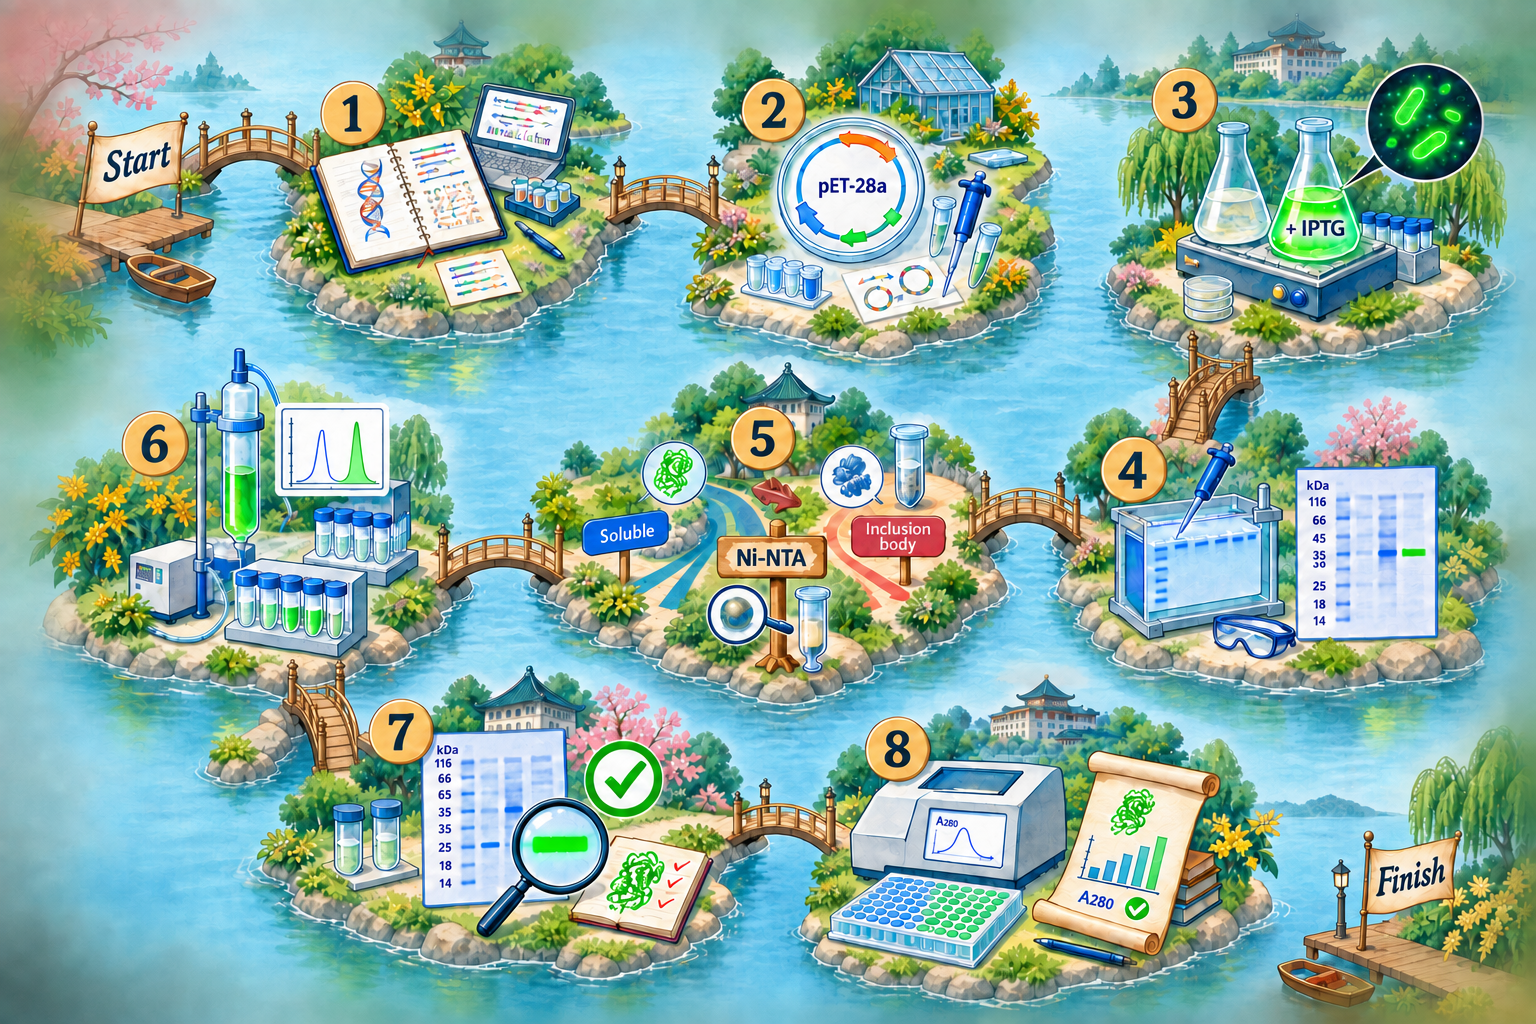
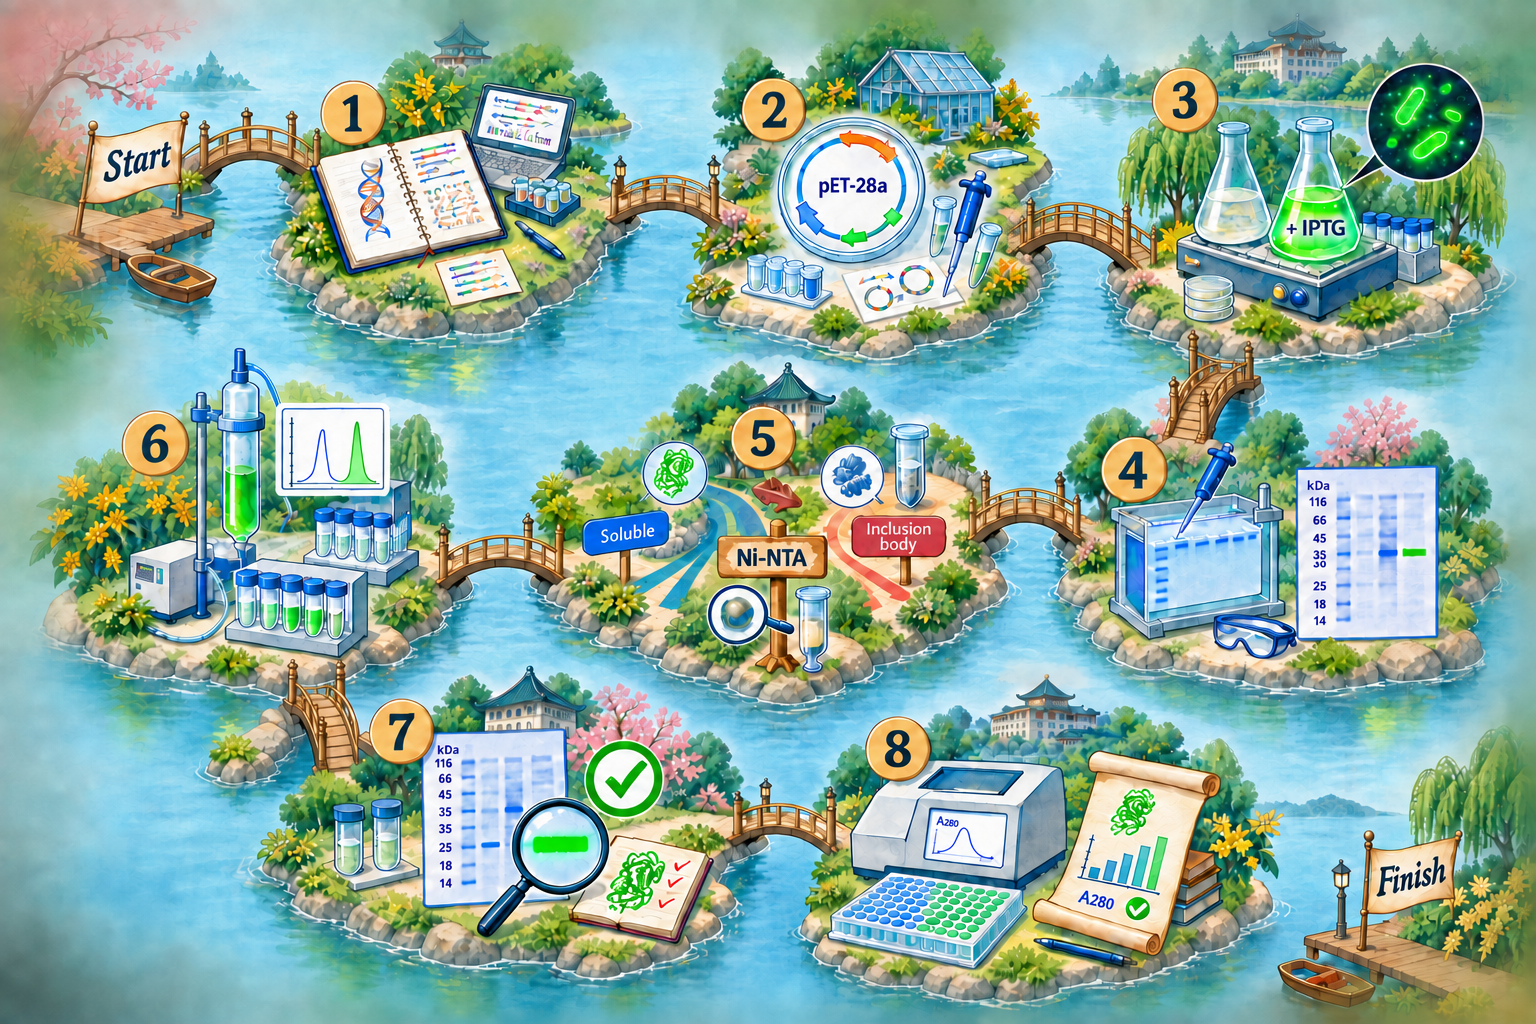
refactor: 接入独立生化数据库并修复实验地图

diff --git a/src/lib/supabase-client.ts b/src/lib/supabase-client.ts
@@ -1,94 +1,65 @@
 import { createClient, type SupabaseClient } from '@supabase/supabase-js';
-import { execSync } from 'child_process';
 import { getReportBuffer, createWrappedFetch } from 'coze-coding-dev-sdk';
-
-let envLoaded = false;
 
 interface SupabaseCredentials {
   url: string;
   anonKey: string;
 }
 
-function loadEnv(): void {
-  if (envLoaded || (process.env.COZE_SUPABASE_URL && process.env.COZE_SUPABASE_ANON_KEY)) {
-    return;
-  }
+function firstConfigured(...values: Array<string | undefined>): string | undefined {
+  return values.find((value) => value?.trim())?.trim();
+}
 
+function assertSupabaseUrl(value: string): string {
+  let url: URL;
   try {
-    try {
-      // dotenv 为可选依赖，同步上下文下用 require 懒加载；未安装则走下方 fallback
-      // eslint-disable-next-line @typescript-eslint/no-require-imports
-      require('dotenv').config();
-      if (process.env.COZE_SUPABASE_URL && process.env.COZE_SUPABASE_ANON_KEY) {
-        envLoaded = true;
-        return;
-      }
-    } catch {
-      // dotenv not available
-    }
-
-    const pythonCode = `
-import os
-import sys
-try:
-    from coze_workload_identity import Client
-    client = Client()
-    env_vars = client.get_project_env_vars()
-    client.close()
-    for env_var in env_vars:
-        print(f"{env_var.key}={env_var.value}")
-except Exception as e:
-    print(f"# Error: {e}", file=sys.stderr)
-`;
-
-    const output = execSync(`python3 -c '${pythonCode.replace(/'/g, "'\"'\"'")}'`, {
-      encoding: 'utf-8',
-      timeout: 10000,
-      stdio: ['pipe', 'pipe', 'pipe'],
-    });
-
-    const lines = output.trim().split('\n');
-    for (const line of lines) {
-      if (line.startsWith('#')) continue;
-      const eqIndex = line.indexOf('=');
-      if (eqIndex > 0) {
-        const key = line.substring(0, eqIndex);
-        let value = line.substring(eqIndex + 1);
-        if ((value.startsWith("'") && value.endsWith("'")) ||
-            (value.startsWith('"') && value.endsWith('"'))) {
-          value = value.slice(1, -1);
-        }
-        if (!process.env[key]) {
-          process.env[key] = value;
-        }
-      }
-    }
-
-    envLoaded = true;
+    url = new URL(value);
   } catch {
-    // Silently fail
+    throw new Error('Supabase URL 配置无效');
   }
+  if (url.protocol !== 'https:' && url.hostname !== 'localhost' && url.hostname !== '127.0.0.1') {
+    throw new Error('Supabase URL 必须使用 HTTPS（本地开发除外）');
+  }
+  return url.origin;
 }
 
 function getSupabaseCredentials(): SupabaseCredentials {
-  loadEnv();
-
-  const url = process.env.COZE_SUPABASE_URL;
-  const anonKey = process.env.COZE_SUPABASE_ANON_KEY;
+  const url = firstConfigured(
+    process.env.COZE_SUPABASE_URL,
+    process.env.SUPABASE_URL,
+    process.env.NEXT_PUBLIC_SUPABASE_URL,
+  );
+  const anonKey = firstConfigured(
+    process.env.COZE_SUPABASE_ANON_KEY,
+    process.env.SUPABASE_PUBLISHABLE_KEY,
+    process.env.NEXT_PUBLIC_SUPABASE_PUBLISHABLE_KEY,
+    process.env.NEXT_PUBLIC_SUPABASE_ANON_KEY,
+  );
 
   if (!url) {
-    throw new Error('COZE_SUPABASE_URL is not set');
+    throw new Error('Supabase URL 未配置');
   }
   if (!anonKey) {
-    throw new Error('COZE_SUPABASE_ANON_KEY is not set');
+    throw new Error('Supabase Publishable Key 未配置');
   }
 
-  return { url, anonKey };
+  return { url: assertSupabaseUrl(url), anonKey };
 }
 
 function getSupabaseServiceRoleKey(): string | undefined {
-  loadEnv();
-  return process.env.COZE_SUPABASE_SERVICE_ROLE_KEY;
+  return firstConfigured(
+    process.env.COZE_SUPABASE_SERVICE_ROLE_KEY,
+    process.env.SUPABASE_SERVICE_ROLE_KEY,
+  );
+}
+
+function hasCompleteSupabaseConfiguration(): boolean {
+  try {
+    getSupabaseCredentials();
+    return Boolean(getSupabaseServiceRoleKey());
+  } catch {
+    return false;
+  }
 }
 
 function createSupabaseClient(key: string, token?: string): SupabaseClient {
@@ -121,13 +92,13 @@ function createSupabaseClient(key: string, token?: string): SupabaseClient {
 function getSupabaseAdminClient(): SupabaseClient {
   const serviceRoleKey = getSupabaseServiceRoleKey();
   if (!serviceRoleKey) {
-    throw new Error('COZE_SUPABASE_SERVICE_ROLE_KEY is not set');
+    throw new Error('Supabase Service Role Key 未配置');
   }
   return createSupabaseClient(serviceRoleKey);
 }
 
 export {
-  loadEnv,
   getSupabaseCredentials,
   getSupabaseAdminClient,
+  hasCompleteSupabaseConfiguration,
 };

diff --git a/scripts/seed-agent-content.ts b/scripts/seed-agent-content.ts
@@ -1,4 +1,6 @@
 import { createHash } from 'crypto';
+import { config as loadDotEnv } from 'dotenv';
+import { pathToFileURL } from 'url';
 import { experimentSteps } from '../src/domain/experiment';
 import { courseImageQuestions } from '../src/domain/media';
 import { getSupabaseAdminClient } from '../src/lib/supabase-client';
@@ -6,7 +8,9 @@ import { getSupabaseAdminClient } from '../src/lib/supabase-client';
 const EXPERIMENT_ID = '10000000-0000-4000-8000-000000000003';
 const hash = (value: unknown) => createHash('sha256').update(JSON.stringify(value)).digest('hex');
 
-const instruments = [
+loadDotEnv({ path: '.env.local', quiet: true });
+
+export const instruments = [
   { name: '超声波破碎仪', image_path: '/course-assets/sonicator.jpg', purpose: '低温间歇超声破碎菌体', applicable_steps: [4], safety_points: ['佩戴听力防护', '探头不得空载', '全程低温并间歇工作'], source_ref: '07 图片/仪器设备/超声波破碎仪.jpg' },
   { name: '高速冷冻离心机', image_path: '/course-assets/refrigerated-centrifuge.jpg', purpose: '低温分离裂解上清和沉淀', applicable_steps: [4, 5, 6], safety_points: ['转子配平', '确认转子额定转速', '停稳后开盖'], source_ref: '07 图片/仪器设备/高速冷冻离心机.jpg' },
   { name: '微量核酸蛋白质定量分析仪', image_path: '/course-assets/nanodrop.jpg', purpose: '用微量样品测量紫外吸收和蛋白浓度', applicable_steps: [8], safety_points: ['使用匹配空白', '避免气泡和样品残留'], source_ref: '07 图片/仪器设备/微量核酸蛋白质定量分析仪.jpg' },
@@ -14,7 +18,7 @@ const instruments = [
   { name: '分光光度计', image_path: '/course-assets/spectrophotometer.jpg', purpose: '测量样品在指定波长的吸光度', applicable_steps: [8], safety_points: ['比色皿方向一致', '使用正确空白'], source_ref: '07 图片/仪器设备/分光光度计.jpg' },
 ];
 
-async function main() {
+export async function seedAgentContent() {
   const supabase = getSupabaseAdminClient();
   for (const step of experimentSteps) {
     const { data: stepRow, error: stepError } = await supabase.from('experiment_steps').upsert({
@@ -97,4 +101,10 @@ async function main() {
   console.log(`已导入${experimentSteps.length}个步骤、${chunks.length}个知识块、${courseImageQuestions.length}道图片题。`);
 }
 
-main().catch((error) => { console.error(error); process.exitCode = 1; });
+const entryFile = process.argv[1];
+if (entryFile && import.meta.url === pathToFileURL(entryFile).href) {
+  seedAgentContent().catch((error: unknown) => {
+    console.error(error);
+    process.exitCode = 1;
+  });
+}

diff --git a/tests/supabase-config.test.ts b/tests/supabase-config.test.ts
@@ -1,0 +1,61 @@
+import assert from 'node:assert/strict';
+import test from 'node:test';
+import {
+  getSupabaseCredentials,
+  hasCompleteSupabaseConfiguration,
+} from '../src/lib/supabase-client';
+
+const ENV_NAMES = [
+  'COZE_SUPABASE_URL',
+  'COZE_SUPABASE_ANON_KEY',
+  'COZE_SUPABASE_SERVICE_ROLE_KEY',
+  'SUPABASE_URL',
+  'SUPABASE_PUBLISHABLE_KEY',
+  'SUPABASE_SERVICE_ROLE_KEY',
+  'NEXT_PUBLIC_SUPABASE_URL',
+  'NEXT_PUBLIC_SUPABASE_PUBLISHABLE_KEY',
+  'NEXT_PUBLIC_SUPABASE_ANON_KEY',
+] as const;
+
+function withCleanSupabaseEnv(run: () => void): void {
+  const previous = new Map(ENV_NAMES.map((name) => [name, process.env[name]]));
+  for (const name of ENV_NAMES) delete process.env[name];
+  try {
+    run();
+  } finally {
+    for (const [name, value] of previous) {
+      if (value === undefined) delete process.env[name];
+      else process.env[name] = value;
+    }
+  }
+}
+
+test('直接 Supabase 环境变量可建立统一公开配置', () => {
+  withCleanSupabaseEnv(() => {
+    process.env.SUPABASE_URL = 'https://example.supabase.co/path-that-must-be-removed';
+    process.env.SUPABASE_PUBLISHABLE_KEY = 'publishable-test-key';
+    process.env.SUPABASE_SERVICE_ROLE_KEY = 'service-test-key';
+
+    assert.deepEqual(getSupabaseCredentials(), {
+      url: 'https://example.supabase.co',
+      anonKey: 'publishable-test-key',
+    });
+    assert.equal(hasCompleteSupabaseConfiguration(), true);
+  });
+});
+
+test('缺少 service role 时不得误报数据库已经接通', () => {
+  withCleanSupabaseEnv(() => {
+    process.env.COZE_SUPABASE_URL = 'https://example.supabase.co';
+    process.env.COZE_SUPABASE_ANON_KEY = 'publishable-test-key';
+    assert.equal(hasCompleteSupabaseConfiguration(), false);
+  });
+});
+
+test('非本地 HTTP Supabase 地址被拒绝', () => {
+  withCleanSupabaseEnv(() => {
+    process.env.COZE_SUPABASE_URL = 'http://example.supabase.co';
+    process.env.COZE_SUPABASE_ANON_KEY = 'publishable-test-key';
+    assert.throws(() => getSupabaseCredentials(), /必须使用 HTTPS/);
+  });
+});

diff --git a/src/lib/integration-status.ts b/src/lib/integration-status.ts
@@ -1,5 +1,6 @@
 import { getChaoxingLoginOptions } from '@/lib/chaoxing-client';
 import { getChaoxingFormConfigurationStatus } from '@/lib/chaoxing-sync';
+import { hasCompleteSupabaseConfiguration } from '@/lib/supabase-client';
 
 export type IntegrationState = 'ready' | 'fixture' | 'pending' | 'configured' | 'error';
 
@@ -25,9 +26,7 @@ export function getIntegrationStatus(): IntegrationStatus {
     && getChaoxingLoginOptions().configured;
   const fixture = process.env.ENABLE_AI_FIXTURE === 'true';
   const cozeManaged = hasValue('COZE_PROJECT_ENV') || hasValue('COZE_PROJECT_DOMAIN_DEFAULT');
-  const supabaseReady = hasValue('COZE_SUPABASE_URL')
-    && hasValue('COZE_SUPABASE_ANON_KEY')
-    && hasValue('COZE_SUPABASE_SERVICE_ROLE_KEY');
+  const supabaseReady = hasCompleteSupabaseConfiguration();
   const formStatus = getChaoxingFormConfigurationStatus();
 
   return {

diff --git a/src/app/api/supabase-config/route.ts b/src/app/api/supabase-config/route.ts
@@ -12,7 +12,9 @@ export async function GET() {
       );
     }
 
-    return NextResponse.json({ url, anonKey });
+    return NextResponse.json({ url, anonKey }, {
+      headers: { 'Cache-Control': 'private, no-store' },
+    });
   } catch (error) {
     console.error('Failed to get Supabase config:', error);
     return NextResponse.json(

diff --git a/docs/数据库映射说明-Coze原生模型.md b/docs/数据库映射说明-Coze原生模型.md
@@ -4,9 +4,13 @@
 
 ## 1. 背景与约束
 
-- Coze 生产库不允许执行 DDL。正式数据模型只有两份已执行的迁移：
+- 专用 Supabase 项目 `luojia-biochemistry-agent`（ref：`kyovwpgraymkeytohnwc`）已于 2026-09-03 初始化。初始化完成后，生产应用运行时不执行 DDL。
+- 正式数据模型按文件名顺序由以下迁移构成：
   - `supabase/migrations/202608140001_agent_core.sql`（核心表、RLS、四个业务 RPC）
   - `supabase/migrations/202608190001_profiles_role_lockdown.sql`（收回 profiles 自助更新策略）
+  - `supabase/migrations/202609020002_teacher_student_dimensions.sql`（学生专业、年级、班级维度）
+  - `supabase/migrations/202609030001_data_api_grants.sql`（新项目 Data API 最小表权限）
+  - `supabase/migrations/202609030002_function_execute_lockdown.sql`（收回匿名 RPC 执行权限）
 - 以下两份迁移**从未在任何共享数据库（开发/生产）执行**（已用 `to_regclass`/`information_schema` 双库只读核实），已从仓库删除，代码不再依赖其中任何对象：
   - `202608230001_unified_agent_v2.sql`（session_mode、content_version_id、teacher_role_grants、content_drafts、grade_components、grade_review_requests、v2 系列函数）
   - `202608240001_chaoxing_sync_contract.sql`（sync_outbox.external_record_id 列）
@@ -111,3 +115,5 @@
 
 用户客户端（cookie 会话）可写：`agent_sessions`（本人）、`agent_messages`（本人会话）、`learning_reports`（本人会话）、`teacher_reviews`（授权教师）。
 必须走服务端 service-role 客户端：`step_states`、`content_versions`、`event_logs`、`sync_outbox`（服务端先完成归属与权限校验）。
+
+Supabase Security Advisor 对 `ai_jobs`、`event_logs`、`audit_logs`、`sync_outbox`、`external_identities` 的“RLS 已开启但无策略”提示属于预期：这些表已对 `anon` / `authenticated` 收回表权限，只允许 service-role。业务 RPC 为保证多表原子写入保留 `SECURITY DEFINER`，函数体逐一校验 `auth.uid()`、会话归属或教师授权；`202609030002_function_execute_lockdown.sql` 已收回 `PUBLIC` / `anon` 的执行权，仅允许 `authenticated` 调用。

diff --git a/docs/智能体架构与运行.md b/docs/智能体架构与运行.md
@@ -48,7 +48,7 @@
 
 ## 上线顺序
 
-1. 在Coze实例化 Supabase 并按文件名顺序执行三份迁移。
+1. 创建或绑定专用 Supabase 项目，并按文件名顺序执行 `supabase/migrations/` 中全部迁移；应用运行时不执行 DDL。
 2. 配置Service Role，仅供服务端使用。
 3. 运行`pnpm seed:content`。
 4. 创建三个Coze工作流并配置ID、Token。
@@ -59,7 +59,7 @@
 
 ## 尚需外部配置才能验证的能力
 
-- Supabase远程迁移与真实RLS：需要Coze实例化后的项目凭据。
+- Supabase独立项目、远程迁移与真实RLS已初始化；Coze站点仍需注入该项目的URL、Publishable Key和仅服务端可见的Service Role Key后再做线上回归。
 - 三个Coze工作流真实运行：需要工作流ID和服务端Token。
 - 超星OAuth：需要APPID、APPKEY、武汉大学FID及已登记回调域名。
 - 超星表单写入：需要学校提供正式外部调用URL或已发布任务流调用契约、鉴权、限流和回查规则；浏览器内部请求不作为生产接口。

diff --git a/README.md b/README.md
@@ -24,8 +24,8 @@
 
 ## 本地运行
 
-1. 复制`.env.example`为`.env.local`并填写Supabase。
-2. 按文件名顺序执行 `supabase/migrations/202608140001_agent_core.sql` 和 `supabase/migrations/202608190001_profiles_role_lockdown.sql`。生产 Coze Supabase 不允许执行 DDL，全部功能必须基于这两份迁移建立的模型运行；数据映射见 `docs/数据库映射说明-Coze原生模型.md`。
+1. 复制`.env.example`为`.env.local`并填写Supabase。Coze环境使用`COZE_SUPABASE_*`；直接连接Supabase也支持`SUPABASE_URL`、`SUPABASE_PUBLISHABLE_KEY`和仅服务端可见的`SUPABASE_SERVICE_ROLE_KEY`。
+2. 新库初始化时按文件名顺序执行 `supabase/migrations/` 中全部迁移；已投入使用的生产库不在应用运行时执行 DDL。数据映射见 `docs/数据库映射说明-Coze原生模型.md`。
 3. 执行`pnpm seed:content`导入八步、40个五维知识块、仪器和图片题。
 4. 开发联调可设置`ENABLE_DEMO_ACCESS=true`和`ENABLE_AI_FIXTURE=true`。
 5. 运行`pnpm dev`。
